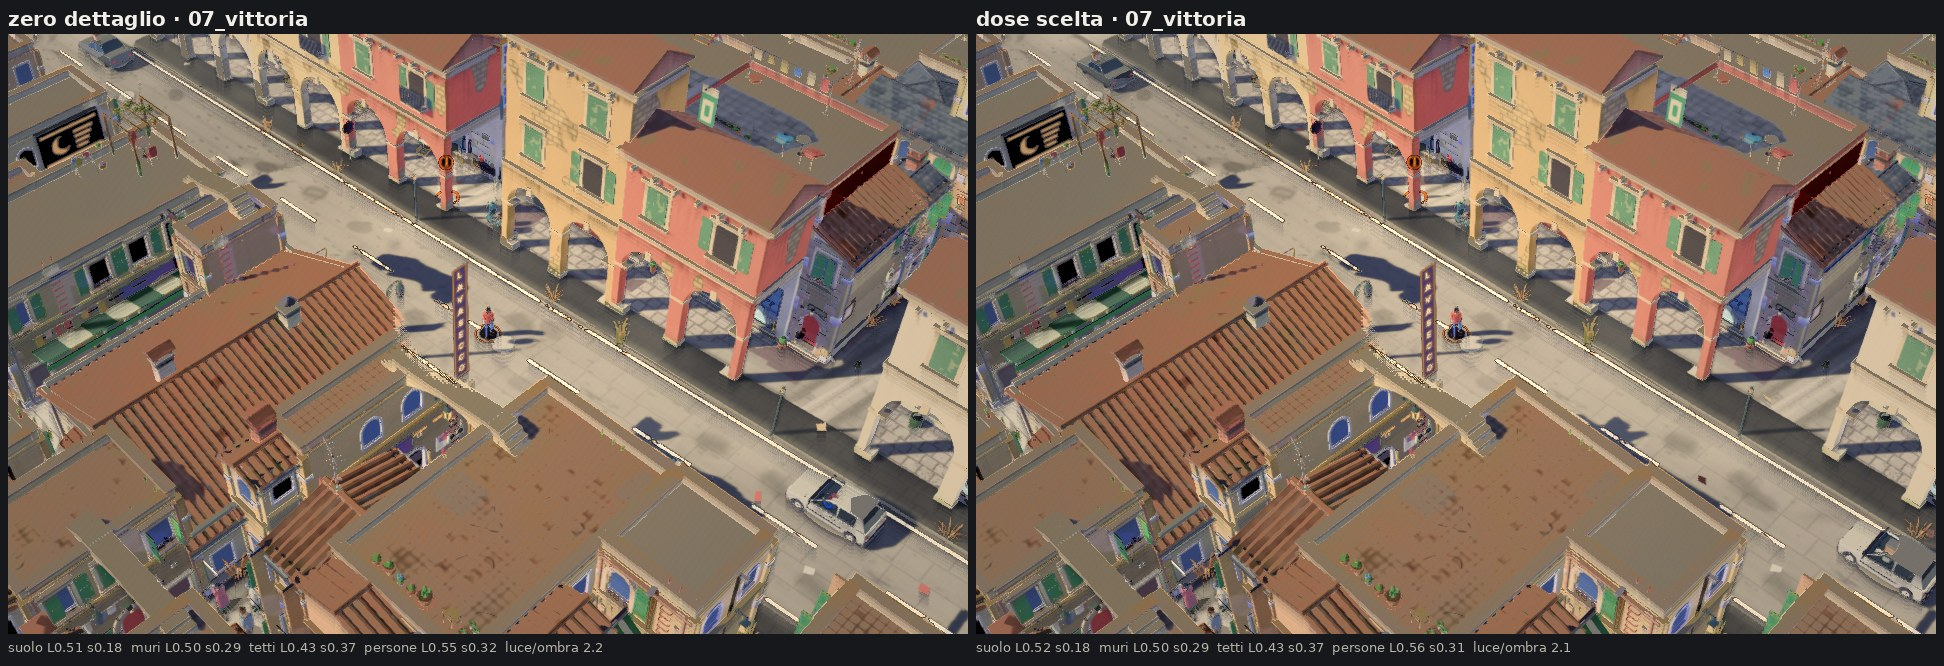
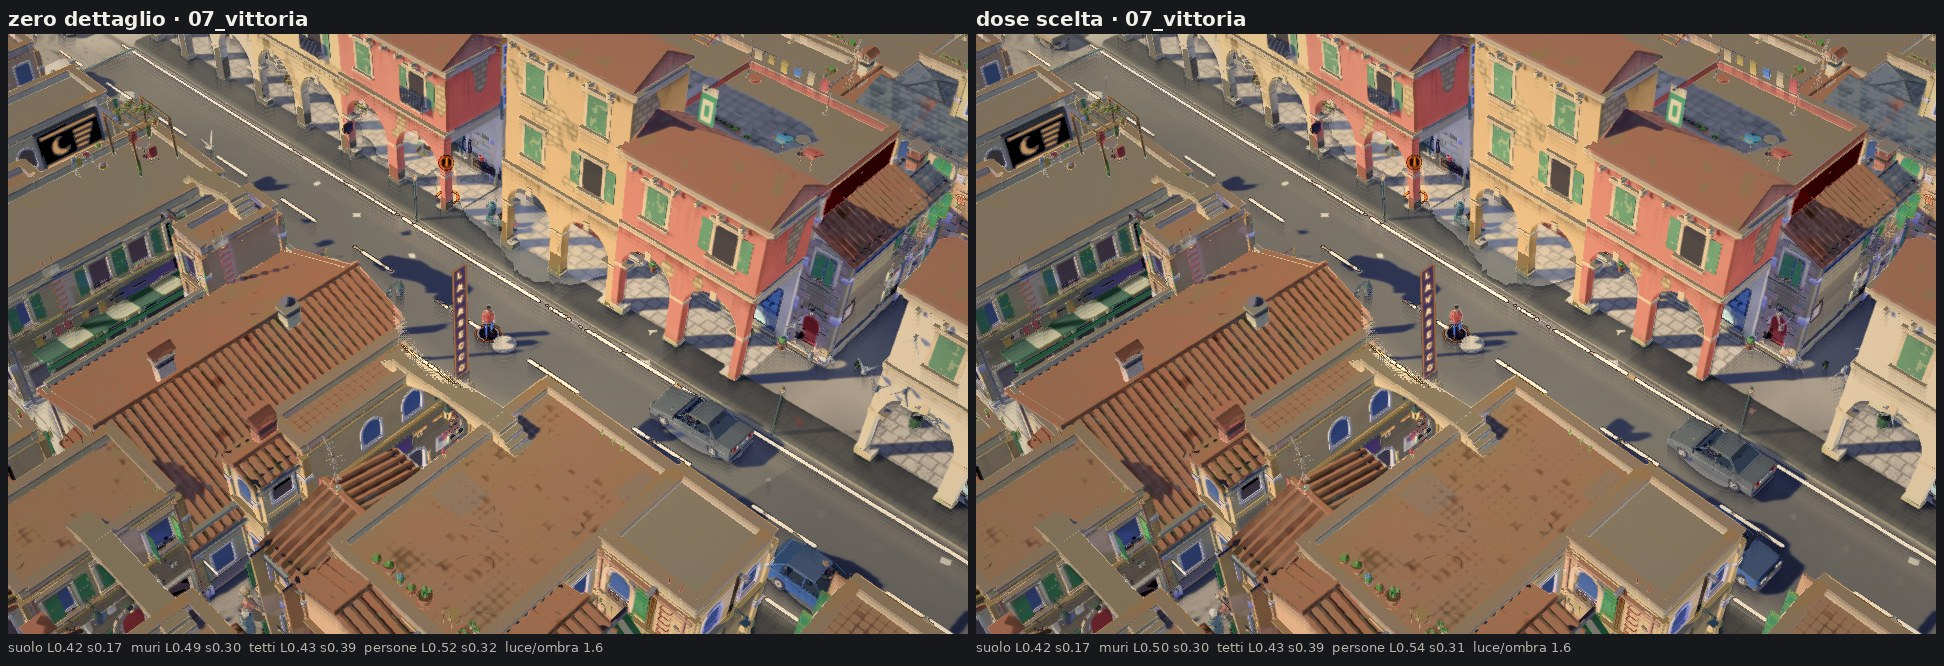
[direzione] Il giro finale: i fogli prima/dopo delle cinque scene, le dosi, la facciata, il varco, i giri; le misure nel documento
Claude-Session: https://claude.ai/code/session_01HEgRdvDzPRTJ6i6GxVpTB4

diff --git a/v7/DIREZIONE_ARTISTICA.md b/v7/DIREZIONE_ARTISTICA.md
@@ -202,3 +202,36 @@ materiali si vedono sulle case solo coi tasselli ricotti per questa impronta (il
 - `GALLERIA_VARIANTI=strumenti/manopole_direzione_audit.json`: lo stesso scorcio con uno strato alla volta spento (le manopole dal vivo,
   anche `PRO` = `SGU.pro`, `PELL`, `RIV`).
 - I fogli di questo giro: `_immagini/direzione/`.
+
+## 9. Il giro del 2-3 novembre: misure e fogli
+
+Stessa build, stessa camera, stesse scene; prima = `&lookvecchio` coi tasselli di prima (`a4d37afc`), dopo = il look nuovo coi tasselli
+ricotti; profilo leggero, 960×600. Luminanza / saturazione per categoria (`<scena>_cat.json`):
+
+| scena | suolo prima → dopo | muri prima → dopo | tetti prima → dopo | persone/suolo |
+| --- | --- | --- | --- | --- |
+| mattino, Rua Maestra | .43/.47 → .50/.24 | .42/.51 → .49/.30 | .47/.49 → .40/.35 | 1,26 → 1,67 |
+| mezzogiorno, vicolo | .34/.45 → .37/.26 | .40/.48 → .49/.26 | .49/.38 → .42/.26 | 1,09 → 1,42 |
+| mezzogiorno, Vittoria | .44/.43 → .42/.17 | .42/.54 → .50/.30 | .50/.59 → .43/.39 | 1,39 → 1,29 |
+| sera, il bar | .40/.58 → .50/.45 | .29/.61 → .36/.49 | .45/.71 → .39/.53 | 1,29 → 2,63 |
+| notte, Vittoria | .13/.77 → .17/.63 | .19/.66 → .21/.57 | .25/.58 → .21/.45 | 2,54 → 1,71 |
+
+Cosa dicono: di giorno l'ordine dei valori ora c'è (muri sopra il suolo, tetti sotto i muri: prima i tetti erano la cosa più chiara e i
+muri la più scura), il fondo non grida più (saturazione da ~.5 a ~.25-.3), la sera le persone si staccano (2,6:1). Le medie dei muri
+restano sotto il .62 del piano perché contano anche le facce in ombra. Da guardare al prossimo giro: a mezzogiorno il suolo della via
+larga tende al grigio-lilla (saturazione .17: il tetto di saturazione del suolo al sole, .20, si può alzare a .26 e il sole scaldarlo di
+più); di notte le persone si staccano meno di prima (1,7:1, prima 2,5:1: il passo non le spinge più col «colore pieno» su tutto).
+
+I giri: 1 (via gli strati; la gerarchia di giorno non partiva per l'errore di `gN.z`), 2 (il giorno corretto: ombre grigio-scure, muri
+ancora scuri), 3 (muri a .68, l'ombra piena del cielo oltremare-lilla, il suolo scaldato dal sole, contrasto 1,14), 4 (le cause: muschio
+a nord, via nuvole e retino, il fuoco sul personaggio; la merge di [camera4]; i tasselli ricotti), finale (le dosi alzate: a .5 non si
+distinguevano da zero; saturazione del giorno 1,10, muri al 66% del contrasto, fuoco .10).
+
+I fogli (`_immagini/direzione/`):
+- `prima_dopo/<scena>.jpg` e `prima_dopo/mosaico.jpg`: le cinque scene, prima e dopo, con le misure;
+- `dosi/<scena>.jpg`, `dosi/dettaglio_rua.jpg`, `dosi/dettaglio_vittoria_tetti.jpg`: zero dettaglio contro la dose scelta;
+- `facciata_linee_rua.jpg`: le facciate con finestre e cornici, il pennarello su ogni faccia contro nessuna linea sugli spigoli interni;
+- `varco_vicolo.jpg`: il varco del primo piano, a puntini contro pulito;
+- `giri_rua.jpg`: la stessa scena giro per giro;
+- `lookvecchio_identico_vicolo.jpg`: la build di prima e la nuova con `?lookvecchio`, uguali (a meno della gente e dello streaming).
+

diff --git a/v7/src/HANDOFF_look.md b/v7/src/HANDOFF_look.md
@@ -171,3 +171,13 @@ Il piano è `ANALISI_STILE.md` (la diagnosi misurata, il piano di valori per cat
 pagina; ogni cambio a un modulo del gioco cambia l'impronta, e senza release la città si costruisce nel browser (lentissimo, i pavimenti
 arrivano a pezzi). Per un ramo: lanciare a mano il workflow `tasselli` sul ramo (workflow_dispatch, ~5 minuti), poi un push qualunque
 (rifà l'anteprima, che scarica la release). Ultima cotta per questo ramo: `tasselli-a4d37afc65c533fd` ([camera3], 5017713).
+
+## [direzione] La direzione artistica: si toglie, si dosa, ogni segno ha una causa (2-3 novembre)
+
+La regola è `DIREZIONE_ARTISTICA.md` (diagnosi, dieci regole, piano dei valori, tavolozze per ora e quartiere, bordi, dosi, budget del
+passo, identità hip hop, misure). In `render.js` tutto sta dietro `DIR` (`window.__DIR`); `?lookvecchio` riporta il look di prima,
+identico. Il passo finale col `#define SG_DIR` (via nitidezza, pellicola, tavolozza per tinta, densità e contrasto locale, linee fra le
+facce: resta solo la sagoma delle persone; il piano dei valori per categoria nelle uniform `dV`, `dW`; il fuoco `dF`). I materiali: via
+retino, nuvole, rumore del suolo, colature; il dettaglio dosato (`DIR.pittura`, `varia`, `vissuto`, `tremolio`, `microNormale`), il
+muschio solo sulle falde a nord. Corretto: `gN.z` (il giorno) era azzerato dalle manopole dell'ora. Il varco del primo piano pulito.
+**I tasselli vanno ricotti** perché i cambi ai materiali arrivino sulle case (gli shader delle case sono scritti espansi nei tasselli).
